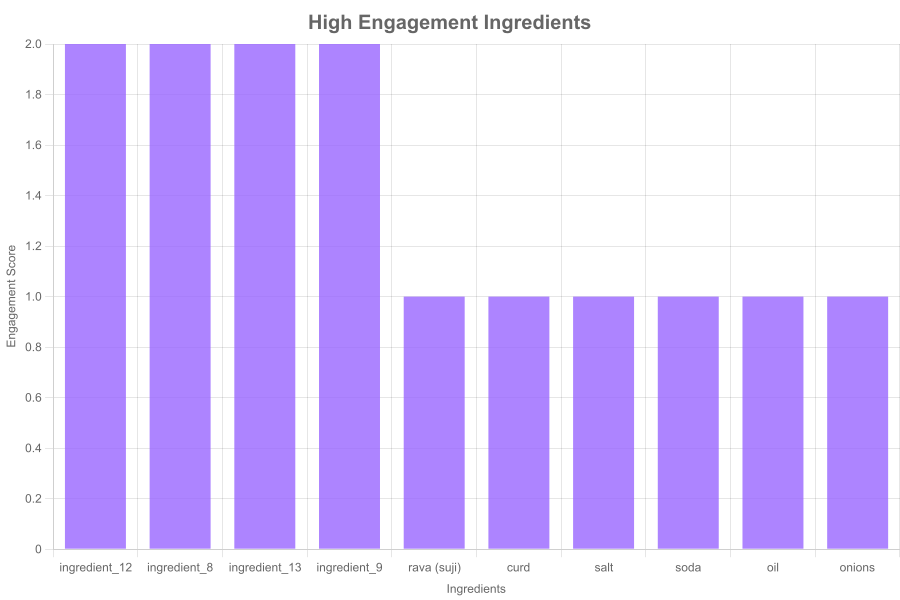
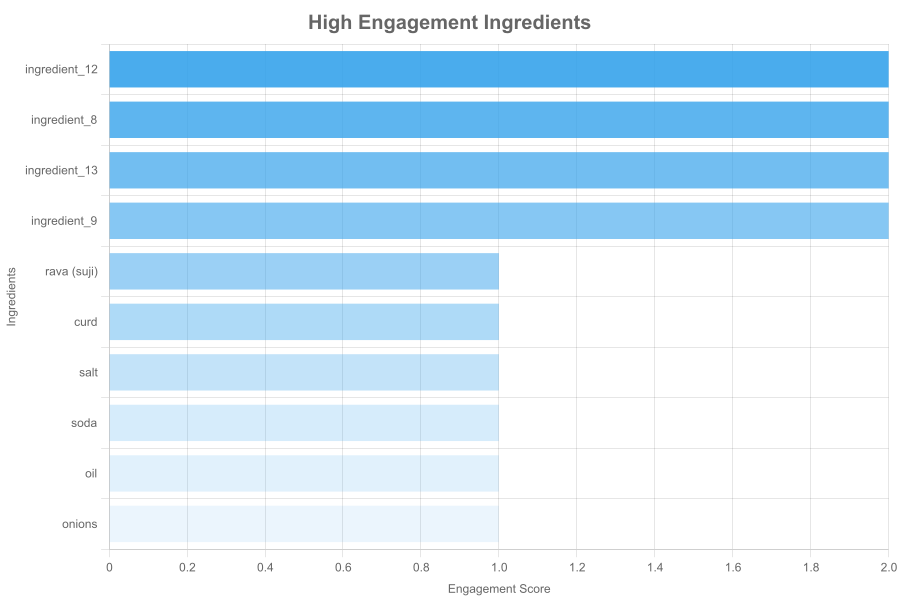
Add data image

diff --git a/scripts/charts.js b/scripts/charts.js
@@ -3,8 +3,8 @@ const fs = require("fs");
 const path = require("path");
 const csv = require("csv-parser");
 
-const width = 900; // canvas width
-const height = 600; // canvas height
+const width = 900; 
+const height = 600; 
 const outputDir = path.join(__dirname, "../Images");
 const csvFolder = path.join(__dirname, "../output");
 
@@ -31,24 +31,28 @@ async function generateChart(configuration, fileName) {
   console.log(`✅ Saved chart: ${fileName}`);
 }
 
-// Difficulty distribution chart
+// Difficulty distribution chart as Pie (shades of blue)
 async function difficultyDistribution(recipes) {
   const counts = { easy: 0, medium: 0, hard: 0 };
   recipes.forEach((r) => counts[r.difficulty]++);
   const config = {
-    type: "bar",
+    type: "pie",
     data: {
       labels: Object.keys(counts),
-      datasets: [{ label: "Number of Recipes", data: Object.values(counts), backgroundColor: "#36A2EB" }]
+      datasets: [{
+        label: "Number of Recipes",
+        data: Object.values(counts),
+        backgroundColor: [
+          "rgba(54, 162, 235, 0.8)",
+          "rgba(54, 162, 235, 0.5)",
+          "rgba(54, 162, 235, 0.3)"
+        ]
+      }]
     },
     options: {
       plugins: {
         title: { display: true, text: "Difficulty Distribution", font: { size: 20 } },
-        legend: { display: false }
-      },
-      scales: {
-        y: { beginAtZero: true, title: { display: true, text: "Number of Recipes" } },
-        x: { title: { display: true, text: "Difficulty" } }
+        legend: { position: "top" }
       }
     }
   };
@@ -73,8 +77,8 @@ async function prepTimeVsLikes(recipes, interactions) {
       datasets: [{
         label: "Likes vs Prep Time",
         data: prepTimes.map((t, i) => ({ x: t, y: likes[i] })),
-        borderColor: "#36A2EB",
-        backgroundColor: "rgba(54, 162, 235, 0.2)",
+        borderColor: "#1E90FF",
+        backgroundColor: "rgba(30, 144, 255, 0.2)",
         fill: false,
         tension: 0.3,
         pointRadius: 5
@@ -95,7 +99,7 @@ async function prepTimeVsLikes(recipes, interactions) {
   await generateChart(config, "prep_vs_likes.png");
 }
 
-// Most common ingredients (light purple)
+// Most common ingredients (bar chart, shades of blue)
 async function mostCommonIngredients(ingredients) {
   const freq = {};
   ingredients.forEach((i) => { const name = i.name.toLowerCase(); freq[name] = (freq[name] || 0) + 1; });
@@ -105,7 +109,25 @@ async function mostCommonIngredients(ingredients) {
 
   const config = {
     type: "bar",
-    data: { labels, datasets: [{ label: "Frequency", data, backgroundColor: "rgba(153, 102, 255, 0.8)" }] },
+    data: { 
+      labels, 
+      datasets: [{
+        label: "Frequency",
+        data,
+        backgroundColor: [
+          "rgba(54, 162, 235, 0.8)",
+          "rgba(54, 162, 235, 0.6)",
+          "rgba(54, 162, 235, 0.5)",
+          "rgba(54, 162, 235, 0.7)",
+          "rgba(54, 162, 235, 0.4)",
+          "rgba(54, 162, 235, 0.3)",
+          "rgba(54, 162, 235, 0.9)",
+          "rgba(54, 162, 235, 0.65)",
+          "rgba(54, 162, 235, 0.55)",
+          "rgba(54, 162, 235, 0.45)"
+        ]
+      }]
+    },
     options: {
       plugins: { title: { display: true, text: "Most Common Ingredients", font: { size: 20 } }, legend: { display: false } },
       scales: {
@@ -117,12 +139,14 @@ async function mostCommonIngredients(ingredients) {
   await generateChart(config, "most_common_ingredients.png");
 }
 
-// High engagement ingredients (light purple)
+// High engagement ingredients (line chart, blue shades)
+// High engagement ingredients (horizontal bar chart, blue shades)
 async function highEngagementIngredients(ingredients, interactions) {
-  // Map recipeId → total interactions (like + attempt)
+  // Map recipeId → total engagement (like + attempt)
   const recipeEngagement = {};
   interactions.forEach(i => {
-    if (["like", "attempt"].includes(i.type)) recipeEngagement[i.recipeId] = (recipeEngagement[i.recipeId] || 0) + 1;
+    if (["like", "attempt"].includes(i.type)) 
+      recipeEngagement[i.recipeId] = (recipeEngagement[i.recipeId] || 0) + 1;
   });
 
   // Map ingredient → sum of engagement from all recipes containing it
@@ -133,32 +157,61 @@ async function highEngagementIngredients(ingredients, interactions) {
     ingredientEngagement[name] = (ingredientEngagement[name] || 0) + engagement;
   });
 
-  const sorted = Object.entries(ingredientEngagement).sort((a, b) => b[1] - a[1]).slice(0, 10);
+  const sorted = Object.entries(ingredientEngagement)
+    .sort((a, b) => b[1] - a[1])
+    .slice(0, 10);
+
   const labels = sorted.map(([name]) => name);
   const data = sorted.map(([_, count]) => count);
 
+  const backgroundColors = [
+    "rgba(54, 162, 235, 0.9)",
+    "rgba(54, 162, 235, 0.8)",
+    "rgba(54, 162, 235, 0.7)",
+    "rgba(54, 162, 235, 0.6)",
+    "rgba(54, 162, 235, 0.5)",
+    "rgba(54, 162, 235, 0.4)",
+    "rgba(54, 162, 235, 0.3)",
+    "rgba(54, 162, 235, 0.2)",
+    "rgba(54, 162, 235, 0.15)",
+    "rgba(54, 162, 235, 0.1)"
+  ];
+
   const config = {
     type: "bar",
-    data: { labels, datasets: [{ label: "Engagement Score", data, backgroundColor: "rgba(153, 102, 255, 0.8)" }] },
+    data: {
+      labels,
+      datasets: [{
+        label: "Engagement Score",
+        data,
+        backgroundColor: backgroundColors
+      }]
+    },
     options: {
-      plugins: { title: { display: true, text: "High Engagement Ingredients", font: { size: 20 } }, legend: { display: false } },
+      indexAxis: 'y', // Horizontal bar chart
+      plugins: {
+        title: { display: true, text: "High Engagement Ingredients", font: { size: 20 } },
+        legend: { display: false }
+      },
       scales: {
-        y: { beginAtZero: true, title: { display: true, text: "Engagement Score" } },
-        x: { title: { display: true, text: "Ingredients" } }
+        x: { beginAtZero: true, title: { display: true, text: "Engagement Score" } },
+        y: { title: { display: true, text: "Ingredients" } }
       }
     }
   };
+
   await generateChart(config, "high_engagement_ingredients.png");
 }
 
-// Average preparation time per recipe (bar)
+
+// Average preparation time (bar chart, blue)
 async function averagePrepTime(recipes) {
   const labels = recipes.map(r => r.title);
   const prepTimes = recipes.map(r => Number(r.prepTimeMin));
 
   const config = {
     type: "bar",
-    data: { labels, datasets: [{ label: "Prep Time (min)", data: prepTimes, backgroundColor: "#36A2EB" }] },
+    data: { labels, datasets: [{ label: "Prep Time (min)", data: prepTimes, backgroundColor: "#1E90FF" }] },
     options: {
       plugins: { title: { display: true, text: "Average Preparation Time per Recipe", font: { size: 20 } }, legend: { display: false } },
       scales: {
@@ -170,15 +223,10 @@ async function averagePrepTime(recipes) {
   await generateChart(config, "average_prep_time.png");
 }
 
-// Most frequently viewed recipes
+// Most frequently viewed recipes (bar chart, blue)
 async function mostViewedRecipes(recipes, interactions) {
   const viewCounts = {};
-  interactions.forEach(i => {
-    if (i.type === "view") {
-      const rid = i.recipe_id || i.recipeId; // handle actual column name
-      viewCounts[rid] = (viewCounts[rid] || 0) + 1;
-    }
-  });
+  interactions.forEach(i => { if (i.type === "view") { const rid = i.recipe_id || i.recipeId; viewCounts[rid] = (viewCounts[rid] || 0) + 1; } });
 
   const labels = [];
   const counts = [];
@@ -192,7 +240,7 @@ async function mostViewedRecipes(recipes, interactions) {
 
   const config = {
     type: "bar",
-    data: { labels, datasets: [{ label: "Views", data: counts, backgroundColor: "#36A2EB" }] },
+    data: { labels, datasets: [{ label: "Views", data: counts, backgroundColor: "#1E90FF" }] },
     options: {
       plugins: { title: { display: true, text: "Most Frequently Viewed Recipes", font: { size: 20 } }, legend: { display: false } },
       scales: {

diff --git a/README.md b/README.md
@@ -73,13 +73,23 @@ The analytics scripts provide detailed insights into recipe data, user interacti
 
 Your analytics script provides:
 
-- Most Frequently Viewed Recipes
-Highlights recipes with the highest number of views from user interactions.
-Insight: Shows popular recipes that attract user attention.
+## Most Frequently Viewed Recipes
 
-- Most liked recipe
+- Highlights recipes with the highest number of views from user interactions.
+- Insight: Shows popular recipes that attract user attention.
+![most_viewed_recipes](https://github.com/Asrjadhav/recipe-data-pipeline/blob/main/images/most_viewed_recipes.png)
 
-- Most active user
+## Most Common Ingredients
+
+- Shows the top 10 most frequently used ingredients across all recipes.
+- Insight: Helps understand popular ingredients in the dataset.
+![most_common_ingredients](https://github.com/Asrjadhav/recipe-data-pipeline/blob/main/images/most_common_ingredients.png)
+
+## Average Preparation Time
+
+- Displays the average preparation time for all recipes.
+- Insight: Useful for understanding recipe complexity and planning.
+![avg_prep_time](https://github.com/Asrjadhav/recipe-data-pipeline/blob/main/images/average_prep_time.png)
 
 - Average global rating
 
